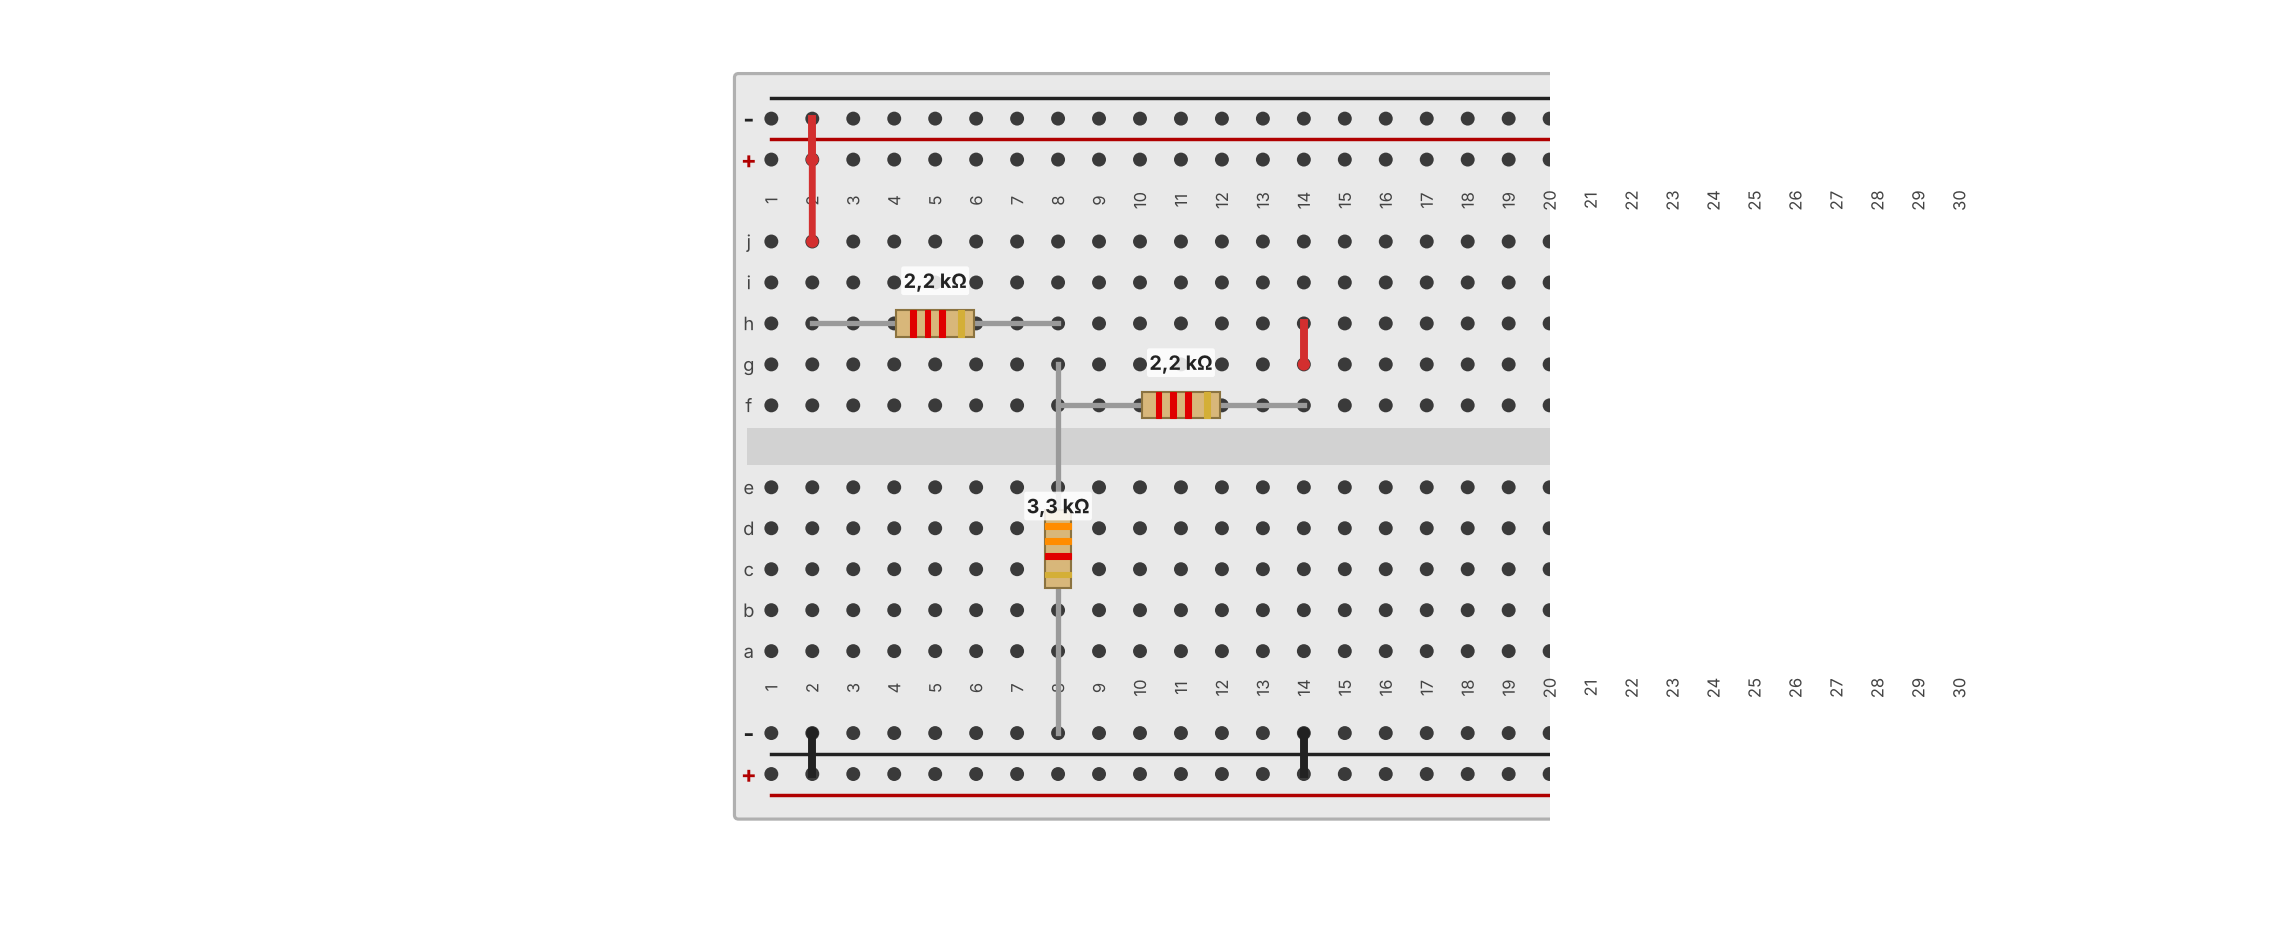
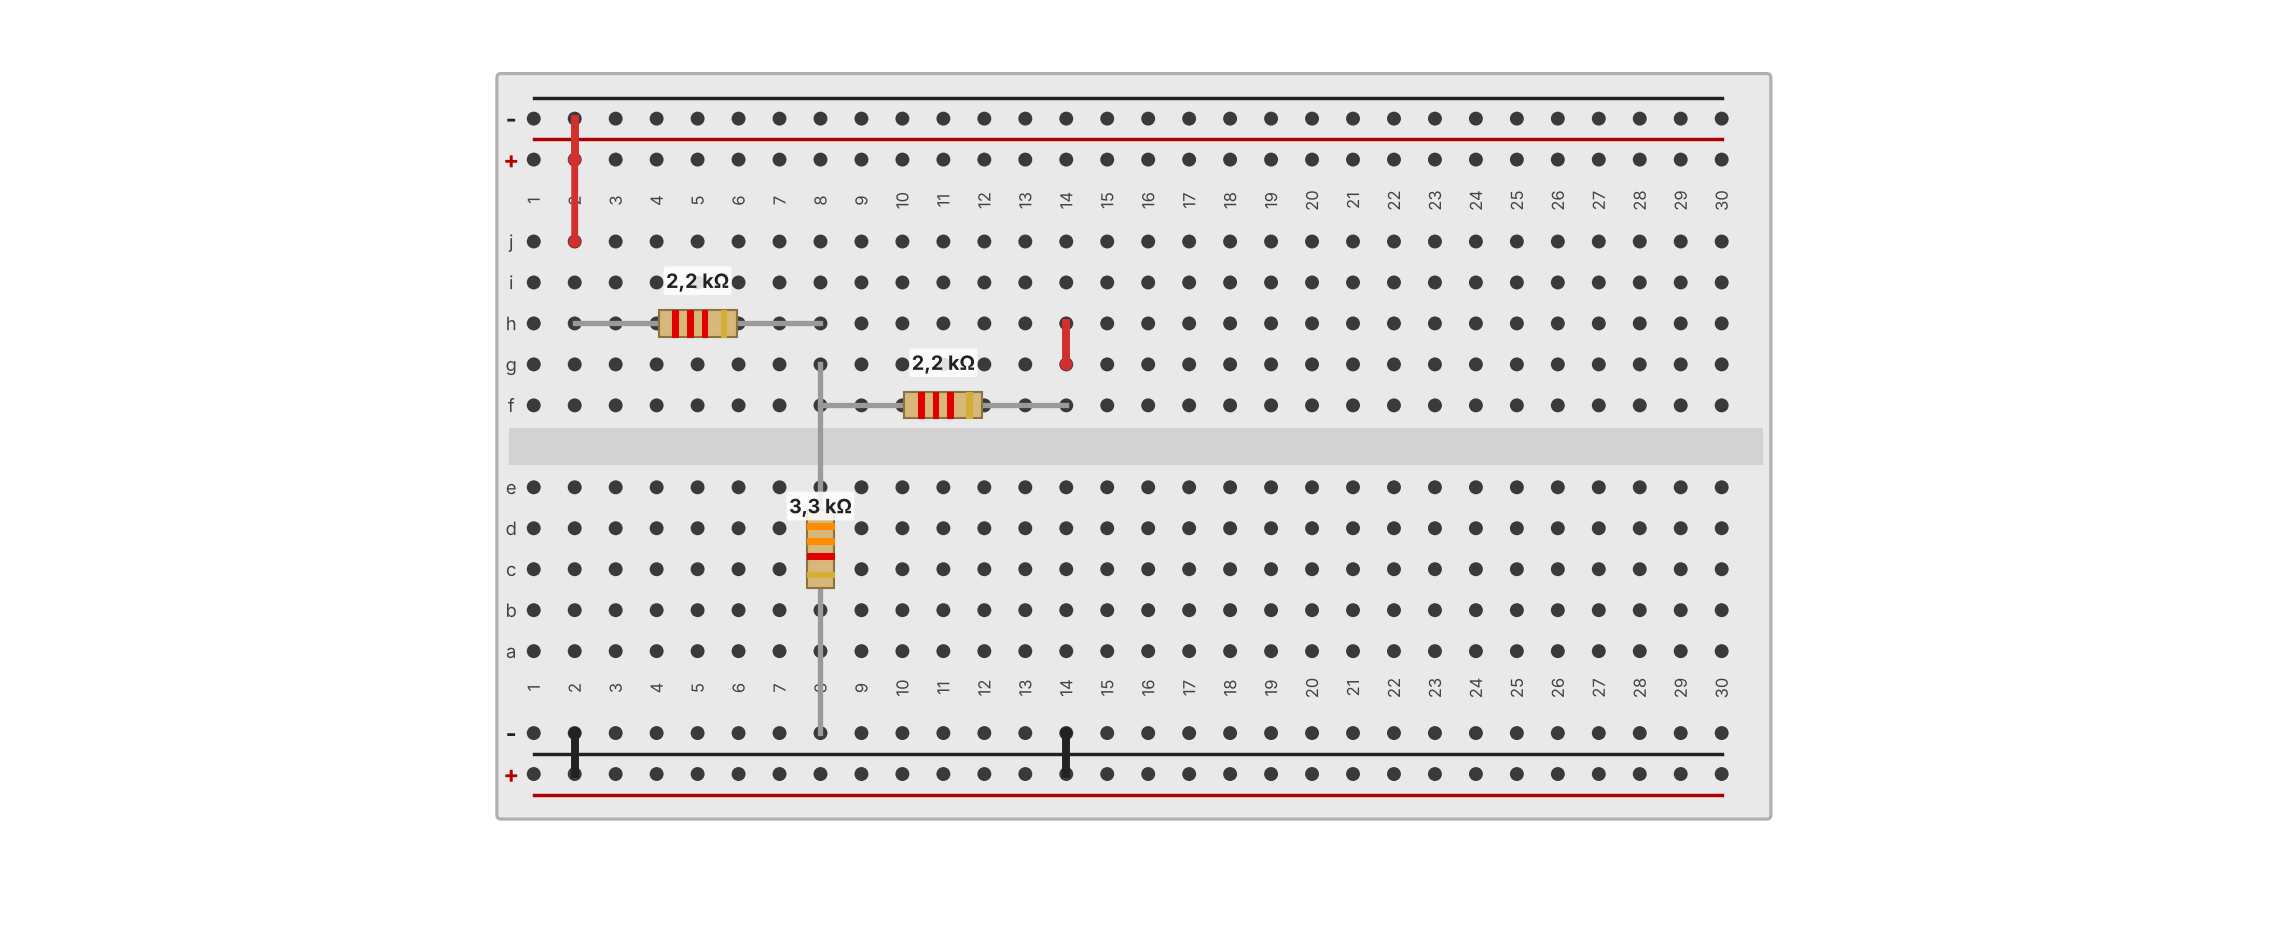
Deney 2: Şekil 1 ve 2 devre tahtası tam pano

Changed region(s): [[0.218, 0.0611, 0.8096, 0.7326], [0.218, 0.7632, 0.7785, 0.8853]]

diff --git a/ele201l_deney2_lab/src/bbdraw.py b/ele201l_deney2_lab/src/bbdraw.py
@@ -7,7 +7,7 @@ BOT_P, BOT_N = ("bot", "+"), ("bot", "-")
 
 
 def s1(path, with_load=False):
-    b = Breadboard(title=None, xr=(0.0, 20.0))
+    b = Breadboard(title=None)
     b.lead("VS+", (2, TOP_P), "+10 V", color="red")
     b.lead("VS-", (2, BOT_N), "−", color="black")
     b.wire((2, TOP_P), (2, "j"), color="red")
